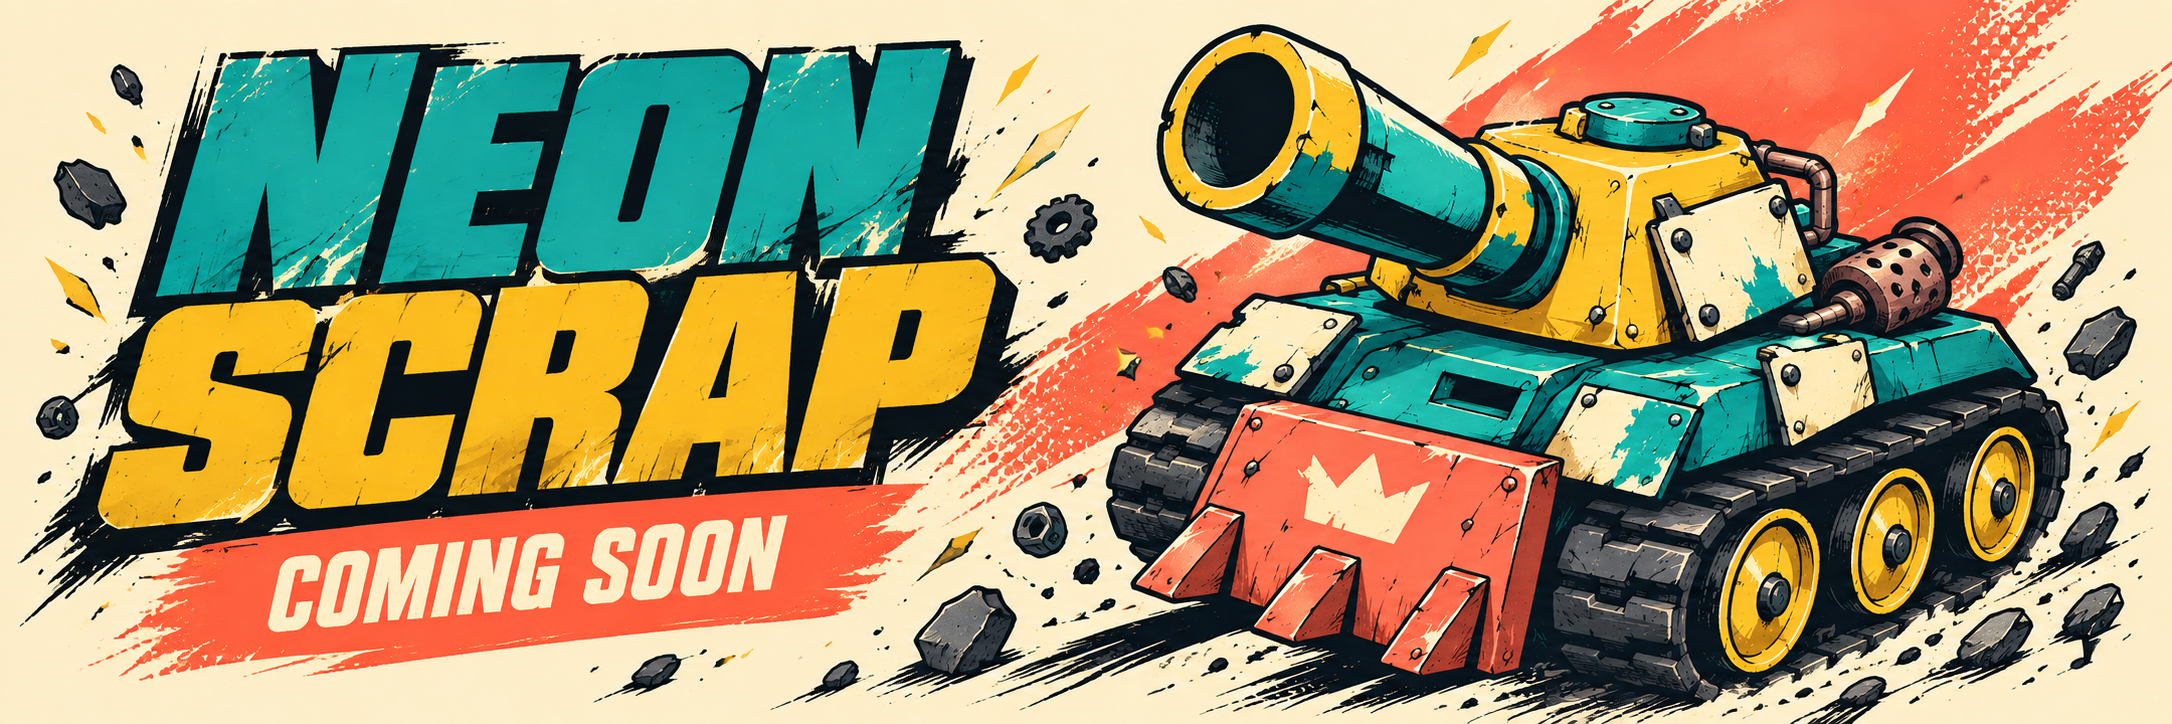
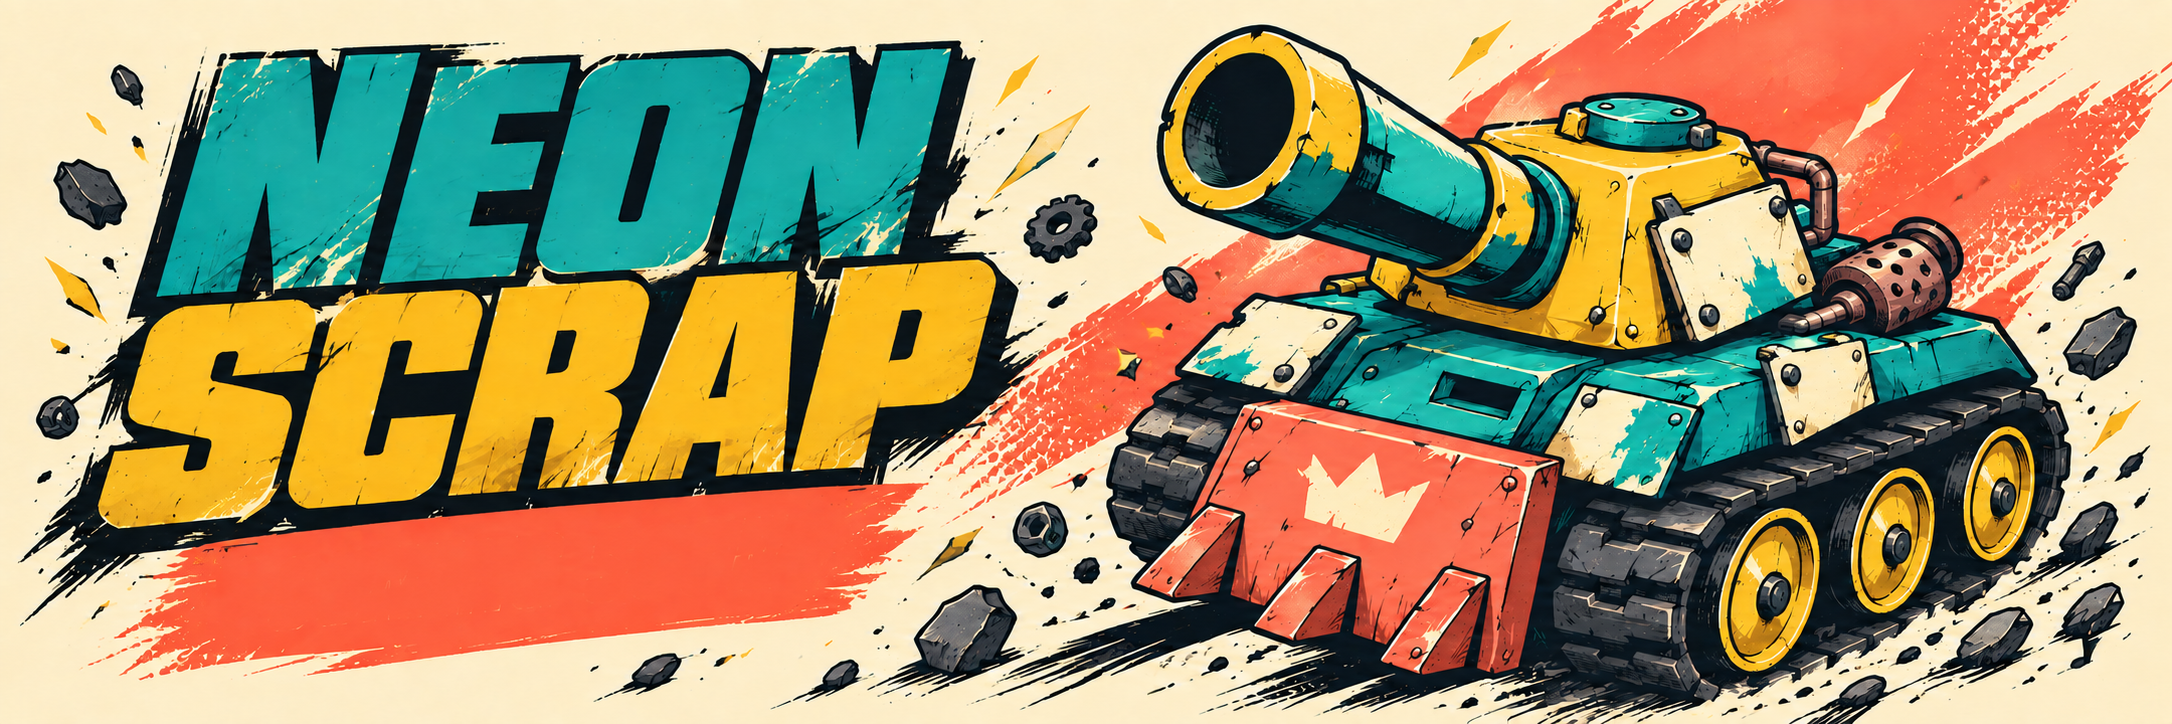
Update Neon Scrap showcase for App Store release

diff --git a/assets/apps/README.md b/assets/apps/README.md
@@ -71,3 +71,11 @@ Reference: `NeonScrap/Art/icon-v9-source.png`
 Prompt:
 
 Use case: ads-marketing. Create a new ultra-wide horizontal GitHub profile project banner, 3:1 aspect ratio, preferably 1536x512. Cream paper, rough black ink outlines, teal yellow coral painted scrap-metal tanks, dynamic comic illustration matching reference. Large bold condensed exact title 'NEON SCRAP' on left and smaller 'COMING SOON'. Tank on right, energetic coral paint streaks and tiny metal scraps. No purple neon aesthetic. Reference image is for existing product style, not an edit target. Edge-to-edge rectangular banner, no rounded corners or outer frame. Art on right, large title on left, generous safe margins. Only requested title text and COMING SOON; no tagline, buttons, App Store badges, UI screenshots, watermark or other text. Clear at 800px display width.
+
+### Neon Scrap release update (2026-09-29)
+
+Edited `neon-scrap.png` with the built-in imagegen tool, using the existing banner as the edit target.
+
+Prompt:
+
+Use case: precise-object-edit. Edit the supplied Neon Scrap GitHub profile banner. Remove only the words 'COMING SOON' from the lower-left coral brushstroke, leaving that area as a clean coral painted brushstroke with natural texture. Preserve the exact NEON SCRAP title, tank illustration, composition, cream paper background, teal/yellow/coral palette, black ink outlines, aspect ratio 3:1, and all other artwork. No replacement text, no badges, no other changes. Output the complete horizontal banner.

diff --git a/README.md b/README.md
@@ -130,10 +130,10 @@ Plakoro is a companion for collectors of the Pokémon Plakoro series. Browse set
 
 **Coming soon.**
 
-### Neon Scrap · Coming soon
+### Neon Scrap
 
-![Neon Scrap — tiny tanks, massive mayhem, coming soon](assets/apps/neon-scrap.png)
+[![Neon Scrap — tiny tanks, massive mayhem](assets/apps/neon-scrap.png)](https://truizlop.github.io/neon-scrap-site/)
 
 Neon Scrap is a local two-player tank duel on one shared iPhone. Pick your ride, face off across the screen, and battle with transforming weapons, wraparound arenas, and a bold comic-book style.
 
-**Coming soon.**
+[Landing page](https://truizlop.github.io/neon-scrap-site/) · [App Store](https://apps.apple.com/app/id6813610685)
